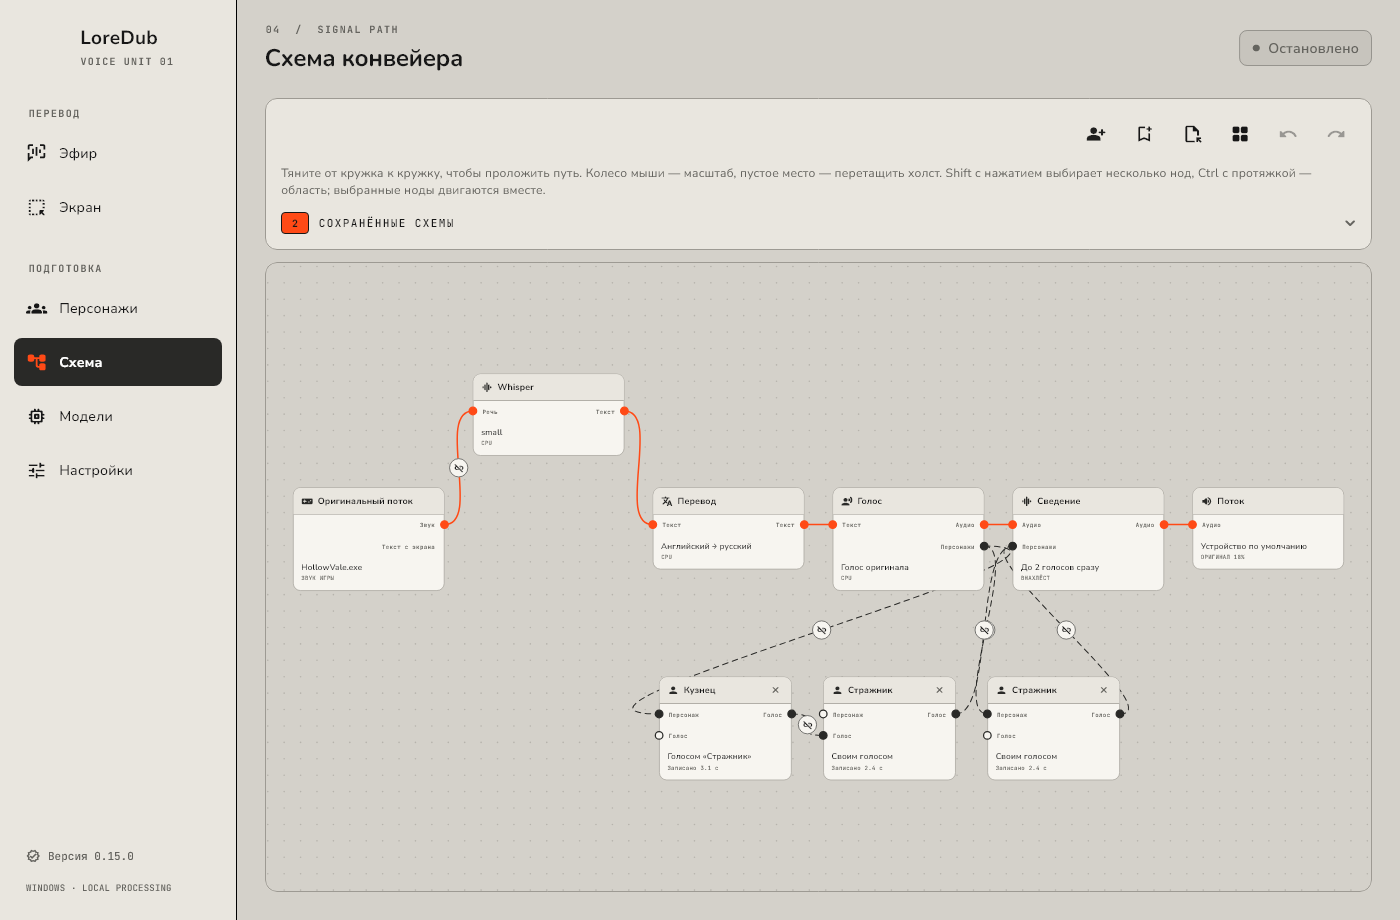
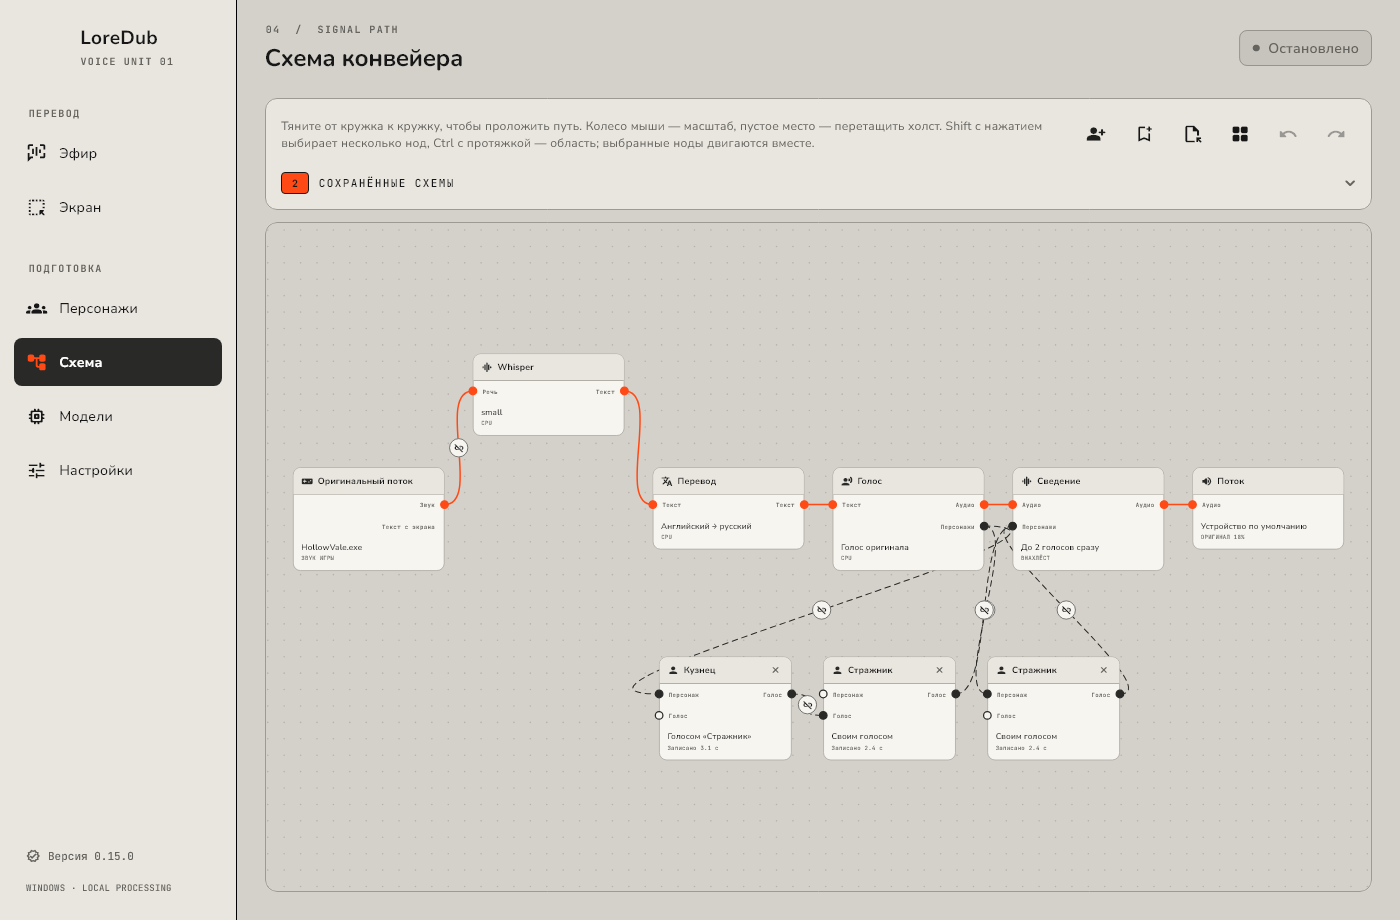
refactor: put the canvas hint on the row it is worked from
The left of the graph's toolbar had stood empty since the two preset
chips left it, and how to work the canvas was a line under the buttons,
pushing the panel down over the canvas it describes. It is that row's
left half now, and a refused link takes the same place -- read where the
hand already is rather than a line below.

diff --git a/lib/src/ui/dashboard/dashboard_view.dart b/lib/src/ui/dashboard/dashboard_view.dart
@@ -2737,10 +2737,25 @@ class _GraphToolbar extends StatelessWidget {
           children: [
             Row(
               children: [
-                // Nothing stands on the left of the row any more: the two
-                // preset chips picked between the audio route and the
-                // subtitles, and the screen is read on its own page now.
-                const Spacer(),
+                // How the canvas is worked, on the row the buttons that work
+                // it are on: the two chips that used to stand here picked
+                // between the audio route and the subtitles, and the screen
+                // is read on its own page now. Whatever the last attempt at
+                // a link came to takes the same place, so a refusal is read
+                // where the hand already is.
+                Expanded(
+                  child: switch (state.refusal) {
+                    final refusal? => Text(
+                      describeConnectionRefusal(l10n, refusal),
+                      style: const TextStyle(fontSize: 12, color: LoreDubPalette.error),
+                    ),
+                    _ => Text(
+                      l10n.pipelineGraphHint,
+                      style: const TextStyle(fontSize: 12, color: LoreDubPalette.mutedInk),
+                    ),
+                  },
+                ),
+                const SizedBox(width: 12),
                 _addCharacter(context, l10n),
                 // The session is rested from here as well as from Live: the
                 // cast is rewired on this screen, and walking to another one
@@ -2794,17 +2809,6 @@ class _GraphToolbar extends StatelessWidget {
                 ),
               ],
             ),
-            const SizedBox(height: 6),
-            switch (state.refusal) {
-              final refusal? => Text(
-                describeConnectionRefusal(l10n, refusal),
-                style: const TextStyle(fontSize: 12, color: LoreDubPalette.error),
-              ),
-              _ => Text(
-                l10n.pipelineGraphHint,
-                style: const TextStyle(fontSize: 12, color: LoreDubPalette.mutedInk),
-              ),
-            },
             const SizedBox(height: 10),
             // The shelf of kept schemes, each with a picture of itself: a
             // click puts it on the canvas and it is the one that runs. It is

diff --git a/CHANGELOG.md b/CHANGELOG.md
@@ -8,6 +8,9 @@
   только пока оно впереди; экран — целиком и всегда, и рамку тогда можно
   обвести где угодно. Это выход для игры, у которой обычного окна нет: процесс
   игры в этом режиме выбирать не обязательно — разве что чтобы приглушить её.
+- На «Схеме» подсказка про работу с холстом встала в строку с кнопками, а не под ними —
+  панель стала ниже, холсту досталось больше места. Причина отказа в связи показывается
+  там же, где рука уже находится.
 - Настройки пересобраны: горячие клавиши поднялись к «Интерфейсу», а карточка
   «Производительность» исчезла — число потоков теперь спрашивают там же, где
   выбирается устройство, и только когда выбран CPU. Под GPU там названа
